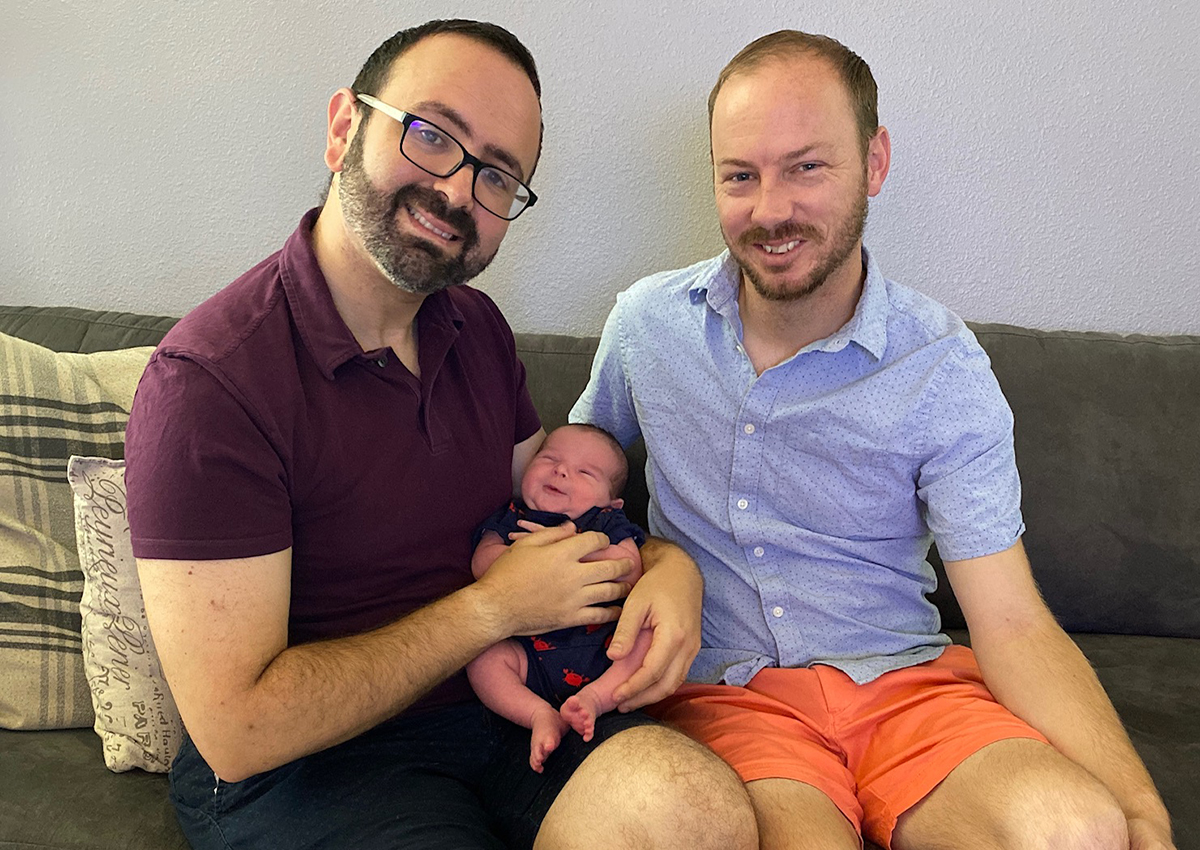
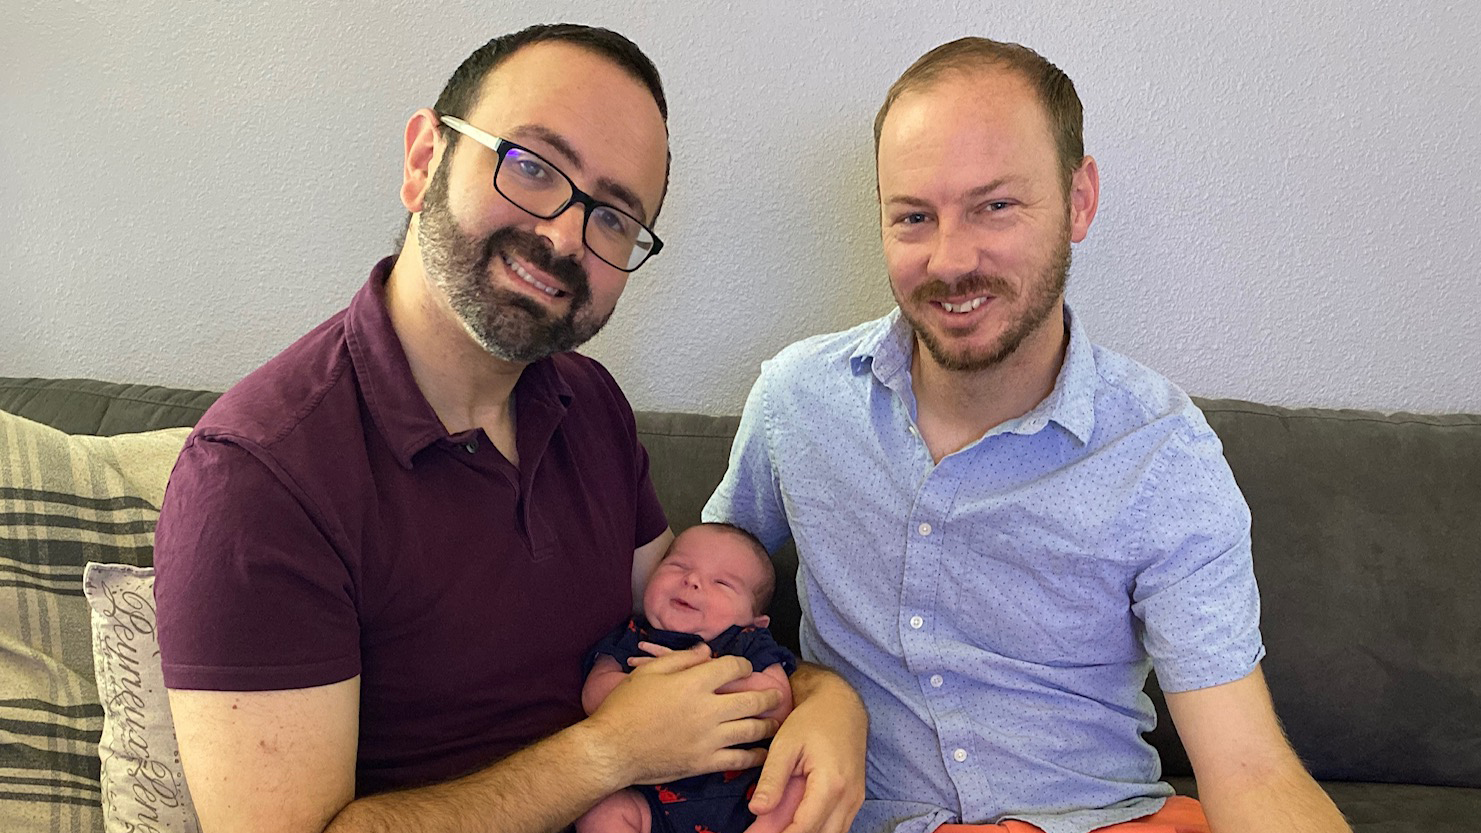
tweaked slider images and worked on format of the home / about page

diff --git a/index.html b/index.html
@@ -46,25 +46,6 @@
 
     <main>
       <div class="index-container">
-
-        <div class="slider">
-          <div>
-            <a href="images/NM1.jpg" data-lightbox="Daddy, Papa + Me with the Judge" data-title="Daddy, Papa + Me with the Judge">Image #1</a><img src="images/NM1.jpg" alt="Daddy, Papa + Me with the Judge" width="900"/>
-          </div>
-
-          <div>
-            <a href="images/RR1.jpg" data-lightbox="Daddy, Papa + Me on the Couch" data-title="Daddy, Papa + Me on the Couch">Image #2</a><img src="images/RR1.jpg" alt="Daddy, Papa + Me on the Couch" width="900"/>
-          </div>
-
-          <div>
-            <a href="images/JR0.jpg" data-lightbox="Daddy, Papa + Me (along with Sis) by the Water" data-title="Daddy, Papa + Me (along with Sis) by the Water">Image #3</a><img src="images/JR0.jpg" alt="Daddy, Papa + Me (along with Sis) by the Water" width="900"/>
-          </div>
-
-          <div>
-            <a href="images/RR2.jpg" data-lightbox="Daddy, Papa + Me on Gotcha Day" data-title="Daddy, Papa + Me on Gotcha Day">Image #4</a><img src="images/RR2.jpg" alt="Daddy, Papa + Me on Gotcha Day" width="900"/>
-          </div>
-        </div>
-
         <section class="home">
           <h1>Guiding Gay Couples in Florida through the Infant Adoption Process!</h1>
           <p>Lorem ipsum dolor sit amet, consectetur adipisicing elit, sed do eiusmod tempor incididunt ut labore et dolore magna aliqua. Ut enim ad minim veniam, quis nostrud exercitation ullamco laboris nisi ut aliquip ex ea commodo consequat. Duis aute irure dolor in reprehenderit in voluptate velit esse cillum dolore eu fugiat nulla pariatur. Excepteur sint occaecat cupidatat non proident, sunt in culpa qui officia deserunt mollit anim id est laborum.</p>
@@ -72,6 +53,52 @@
           <p>Instead of working off of the last assignment, I figured I would get a headstart on the final project. Here I am using the <span class="red-italics">so that I can style things in CSS more easily</span> Until <span class="red-italics">2010</span>, it was unconstitional for gay and lesbian couples to adopt in the State of Florida. It wasn't until <span class="red-italics">2015</span> that Governor Rick Scott signed the offical repeal of the ban.</p>
         </section>
 
+        <section class="gallery">
+          <h2>Picture Gallery</h2>
+          <p>Scroll through our pictures of our friends and their kids and click on the title to enlarge the image.</p>
+          <div class="slider">
+
+            <div>
+              <a href="images/NMcourthouse.jpg" data-lightbox="Click to Enlarge Pics" data-title="Daddy, Papa + Me with the Judge">Daddy, Papa + Me with the Judge</a><img src="images/NMcourthouse.jpg" alt="Daddy, Papa + Me with the Judge" width="600"/>
+            </div>
+
+            <div>
+              <a href="images/RR1.jpg" data-lightbox="Click to Enlarge Pics" data-title="Daddy, Papa + Me on the Couch">Daddy, Papa + Me on the Couch</a><img src="images/RR1.jpg" alt="Daddy, Papa + Me on the Couch" width="600"/>
+            </div>
+
+            <div>
+              <a href="images/JR0.jpg" data-lightbox="Click to Enlarge Pics" data-title="Daddy, Papa + Me (along with Sis) by the Water">Daddy, Papa + Me (along with Sis) by the Water</a><img src="images/JR0.jpg" alt="Daddy, Papa + Me (along with Sis) by the Water" width="600"/>
+            </div>
+
+            <div>
+              <a href="images/NMbday.jpg" data-lightbox="Click to Enlarge Pics" data-title="Daddy, Papa + Me on my 1st Birthday">Daddy, Papa + Me on my 1st Birthday</a><img src="images/NMbday.jpg" alt="Daddy, Papa + Me on my 1st Birthday" width="600"/>
+            </div>
+
+            <div>
+              <a href="images/RR3.jpg" data-lightbox="Click to Enlarge Pics" data-title="Daddy, Papa + Me in the Living Room">Daddy, Papa + Me in the Living Room</a><img src="images/RR3.jpg" alt="Daddy, Papa + Me in the Living Room" width="600"/>
+            </div>
+
+            <div>
+              <a href="images/NMgardens.jpg" data-lightbox="Click to Enlarge Pics" data-title="Daddy, Papa + Me at the Gardens">Daddy, Papa + Me at the Gardens</a><img src="images/NMgardens.jpg" alt="Daddy, Papa + Me at the Gardens" width="600"/>
+            </div>
+
+            <div>
+              <a href="images/RR2.jpg" data-lightbox="Click to Enlarge Pics" data-title="Daddy, Papa + Me in Kitchen">Daddy, Papa + Me in Kitchen</a><img src="images/RR2.jpg" alt="Daddy, Papa + Me in Kitchen" width="600"/>
+            </div>
+
+            <div>
+              <a href="images/JR1.jpg" data-lightbox="Click to Enlarge Pics" data-title="Daddy, Papa + Me (along with Sis) on the Avenue">Daddy, Papa + Me (along with Sis) on the Avenue</a><img src="images/JR1.jpg" alt="Daddy, Papa + Me (along with Sis) on the Avenue" width="600"/>
+            </div>
+
+            <div>
+              <a href="images/NMslide.jpg" data-lightbox="Click to Enlarge Pics" data-title="Daddy, Papa + Me on the Slide">Daddy, Papa + Me on the Slide</a><img src="images/NMslide.jpg" alt="Daddy, Papa + Me on the Slide" width="600"/>
+            </div>
+
+            <div>
+              <a href="images/RR0.jpg" data-lightbox="Click to Enlarge Pics" data-title="Daddy, Papa + Me on Gotcha Day">Daddy, Papa + Me on Gotcha Day</a><img src="images/RR0.jpg" alt="Daddy, Papa + Me on Gotcha Day" width="600"/>
+            </div>
+          </div>
+        </section>
 
         <section class="about">
           <h2>About Us</h2>

diff --git a/css/styles.css b/css/styles.css
@@ -133,11 +133,18 @@ body {
   top: 12px;
 }
 
+.gallery h2 {
+  font-size: 18pt;
+}
 
+.slider {
+  margin: 0 15px 0 15px;
+  text: white;
+}
 
 /*=====================================================
 
-  body styling
+  home page styling
 
 =======================================================*/
 
@@ -146,23 +153,34 @@ body {
   box-sizing: border-box;
   font-size: 18pt;
   margin: 15px auto 15px;
-  /* max-width: 1200px;*/
-  padding: 15px;
+  max-width: 1800px;
+  padding: 5px;
   background: #ffffff;
   min-height: 100vh;
   text-align: left;
   color: #6d6e71;
 }
 
+.home h1 {
+  text-align: center;
+}
 /* .index,
 .about {
   color: #6d6e71;
   margin-right: 28%
 } */
 
-.about {
-  padding-top: 30px;
+.gallery {
+  font-style: italic;
+  color: #3953a4;
+  text-align: center;
+  margin-top: 30px;
 }
+
+.about {
+  margin-top: 30px;
+}
+
 
 .red-italics {
   color: #ed2024;
@@ -170,15 +188,7 @@ body {
   font-style: italic;
 }
 
-.align-left {
-  float: left;
-  margin: 20px;
-}
 
-.small {
-  height: 250px;
-  width: 250px;
-}
 
 /*======================================================
 
@@ -191,7 +201,7 @@ body {
   box-sizing: border-box;
   font-size: 18pt;
   margin: 30px 350px 30px 50px;
-  /* max-width: 1200px; */
+  max-width: 1200px;
   padding: 5px;
   background: #ffffff;
   min-height: 100vh;
@@ -499,6 +509,16 @@ p:first-line {
   footer styling
 
 ===========================*/
+
+.align-left {
+  float: left;
+  margin: 20px;
+}
+
+.small {
+  height: 250px;
+  width: 250px;
+}
 
 
 footer {
